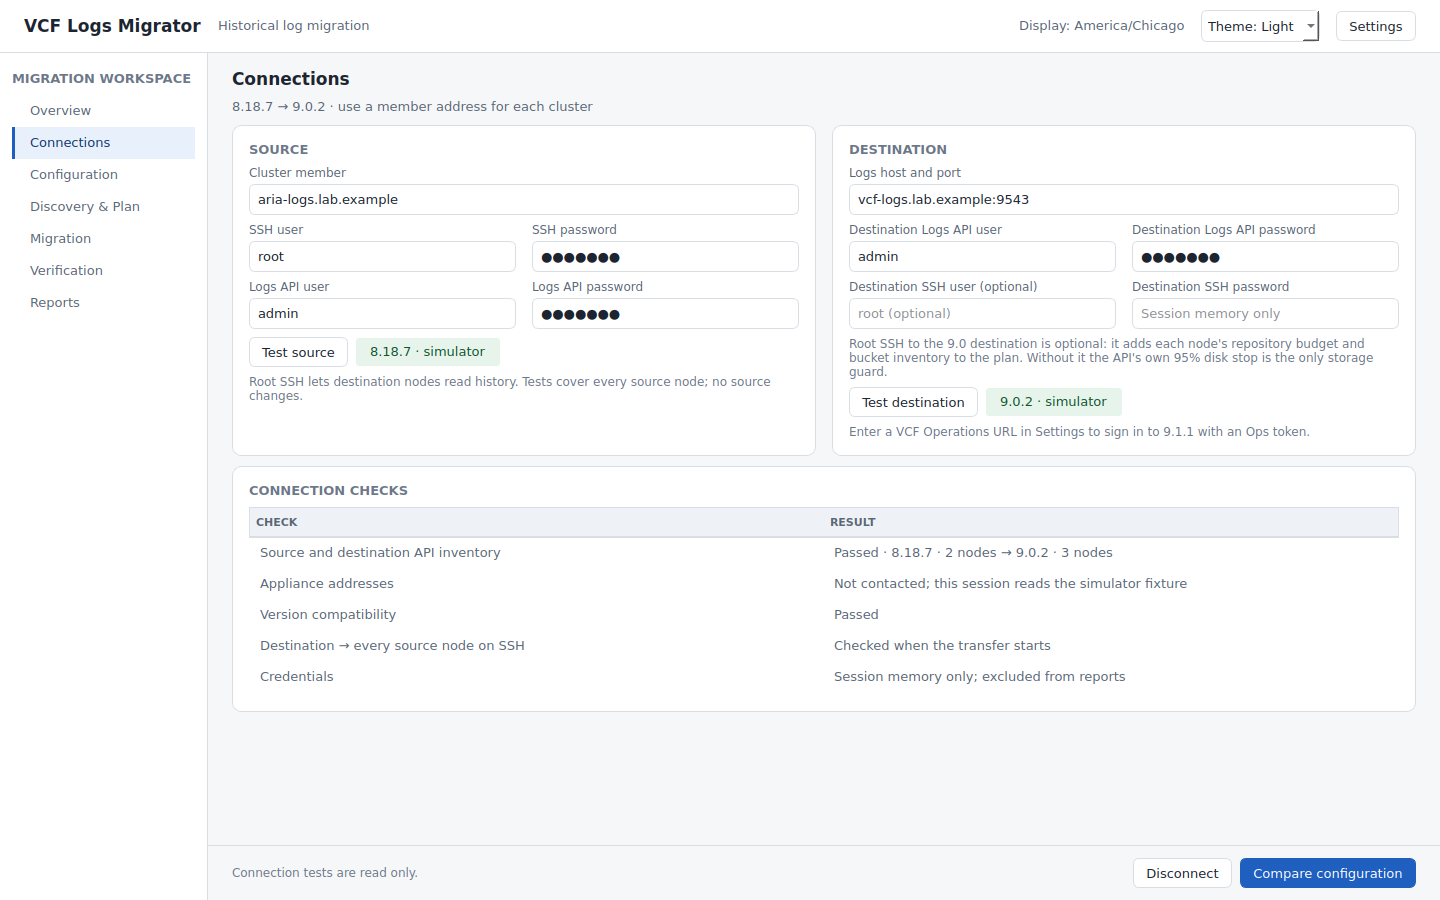
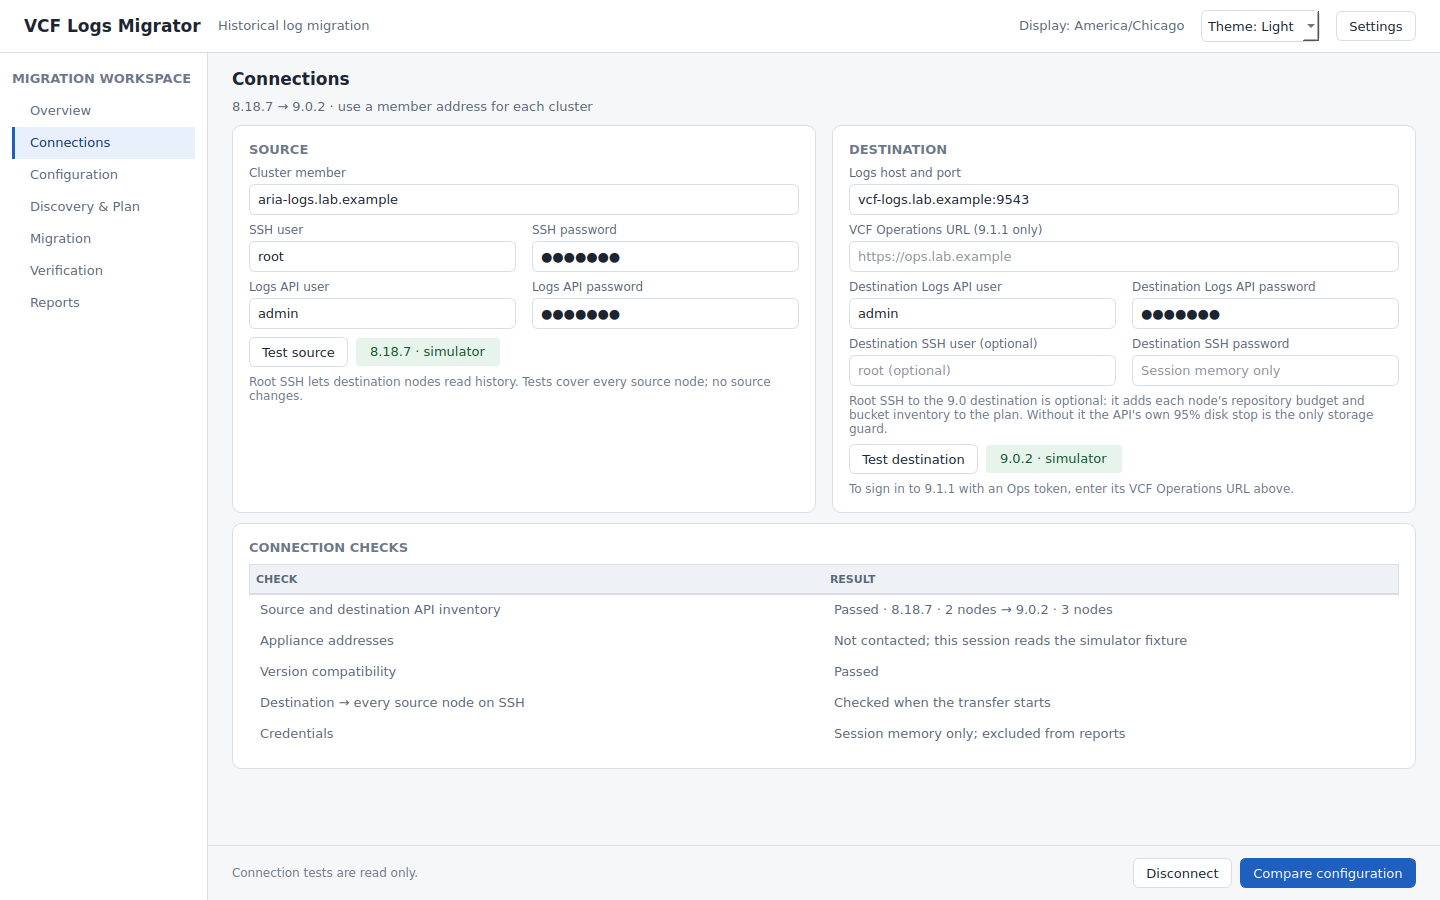
no-mistakes(review): Share config_dir, refresh Connections screenshot

Changed region(s): [[0.5625, 0.2489, 0.9688, 0.84], [0.1562, 0.5289, 0.375, 0.84], [0.7812, 0.2489, 0.9062, 0.3111]]

diff --git a/tests/test_live.py b/tests/test_live.py
@@ -1015,7 +1015,7 @@ def test_cli_selftest_uses_open_live_and_prints_a_summary(monkeypatch, capsys):
 def test_cli_refuses_untrusted_identities_without_a_terminal(monkeypatch, capsys, tmp_path):
     from logs_migrate import cli
 
-    monkeypatch.setenv("LOGS_MIGRATE_CONFIG_DIR", str(tmp_path / "cfg"))
+    monkeypatch.setenv("XDG_CONFIG_HOME", str(tmp_path / "cfg"))
     monkeypatch.setenv("LOGS_SOURCE_SSH_PASSWORD", "canary-ssh")
     monkeypatch.setenv("LOGS_SOURCE_API_PASSWORD", "canary-api")
     monkeypatch.setenv("LOGS_DESTINATION_API_PASSWORD", "canary-dst")
@@ -1043,7 +1043,7 @@ def test_cli_refuses_untrusted_identities_without_a_terminal(monkeypatch, capsys
     monkeypatch.setattr(LiveEnvironment, "open", open_then_fail)
     code = cli.main(["--source", "src.lab", "--destination", "dst.lab", "--trust-new", "discover"])
     assert code == 7 and len(calls) == 2
-    assert TrustStore(tmp_path / "cfg").check(identity) == "trusted"
+    assert TrustStore(tmp_path / "cfg" / "vcf-logs-migrator").check(identity) == "trusted"
     assert "canary" not in capsys.readouterr().err
 
 

diff --git a/src/logs_migrate/trust.py b/src/logs_migrate/trust.py
@@ -13,20 +13,7 @@ from dataclasses import dataclass
 from pathlib import Path
 
 from .errors import Code, MigrationError, require
-
-APP_DIR = "vcf-logs-migrator"
-
-
-def config_dir() -> Path:
-    if os.environ.get("LOGS_MIGRATE_CONFIG_DIR"):
-        return Path(os.environ["LOGS_MIGRATE_CONFIG_DIR"])
-    if os.name == "nt":
-        base = Path(os.environ.get("APPDATA") or Path.home() / "AppData" / "Roaming")
-    elif os.environ.get("XDG_CONFIG_HOME"):
-        base = Path(os.environ["XDG_CONFIG_HOME"])
-    else:
-        base = Path.home() / ".config"
-    return base / APP_DIR
+from .gui.settings import config_dir
 
 
 @dataclass(frozen=True)
